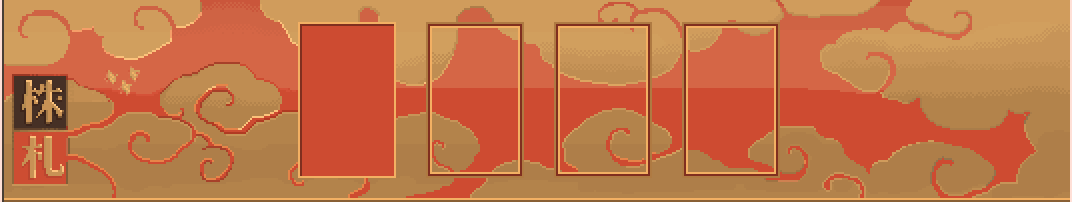
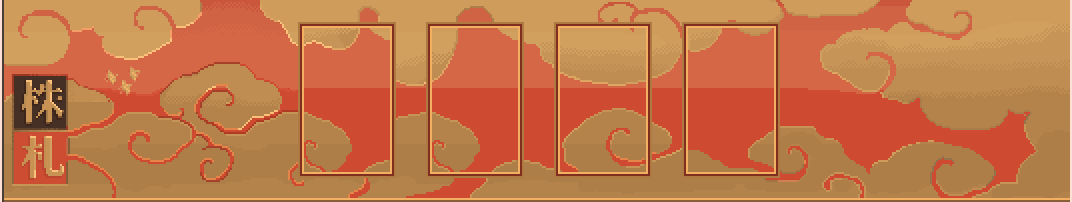
more sfx + difficulty + anim + random stuff

Changed region(s): [[0.2771, 0.0891, 0.3694, 0.8911]]

diff --git a/board.py b/board.py
@@ -5,6 +5,7 @@ from stack import Stack
 from card import Card
 from random import shuffle
 from assetloader import AssetLoader
+from difficulty import Difficulty
 
 
 class Board:
@@ -16,9 +17,9 @@ class Board:
         self.board_main = load_image("backboard-main.png")
         self.top_stacks = [
             Stack(302, 109, [], False, True),
-            Stack(430, 109, [], False, True),
-            Stack(430+128, 109, [], False, True),
-            Stack(430+128+128, 109, [], False, True)
+            Stack(430, 109, [], True, True),
+            Stack(430+128, 109, [], True, True),
+            Stack(430+128+128, 109, [], True, True)
         ]
         self.bottom_stacks = [
             Stack(46, 223+83, []),
@@ -36,14 +37,24 @@ class Board:
         self.randomize_game()
         Board.instance = self
 
+    def set_difficulty(self, difficulty: Difficulty):
+        # noinspection PyTypeChecker
+        for i in range(difficulty.value):
+            self.top_stacks[i].locked = False
+
     def randomize_game(self):
+        self.set_difficulty(Difficulty.EXPERT)
         for stack in self.stacks:
             stack.cards = []
         new_cards = []
         groups = list(range(1, 11))
+        anims = [_*0.3 for _ in list(range(40))]
+        shuffle(anims)
         for n in groups:
             for _ in range(4):
-                new_cards.append(Card(0, 0, n))
+                i = anims[0]
+                new_cards.append(Card(0, 0, n, -i))
+                anims.pop(0)
         shuffle(new_cards)
         for stack in self.bottom_stacks:
             for _ in range(5):
@@ -69,6 +80,10 @@ class Board:
 
     def handle_event(self, event: pygame.event.Event):
         def complete_set(cs_: list[Card], m=0): return len(cs_) == 4-m and list(set(map(lambda card23: card23.number, cs_))).__len__() == 1
+
+        animing_rn = any([any([card.anim != 1 for card in stack]) for stack in self.stacks])
+        if animing_rn:
+            return
 
         for stack in self.stacks:
             revstack = list(stack.__reversed__())

diff --git a/main.py b/main.py
@@ -1,5 +1,5 @@
 import pygame
-# noinspection PyUnresolvedReferences
+# noinspection PyUnresolvedReferences,PyProtectedMember
 from pygame._sdl2 import Window
 from constants import *
 from utils import *
@@ -7,26 +7,39 @@ from game import Game
 
 pygame.init()
 screen = pygame.display.set_mode([WIDTH, HEIGHT], pygame.NOFRAME)
-screen.fill((255, 255, 0))
+
+loading_image = pygame.image.load(join(getcwd(), "images", "loading.png")).convert_alpha()
+screen.blit(loading_image, loading_image.get_rect(center=screen.get_rect().center))
+pygame.mouse.set_cursor(pygame.SYSTEM_CURSOR_WAIT)
+
 pygame.display.update()
 clock = pygame.time.Clock()
 game = Game()
 last_mp = [0, 0]
 last_rel_effect = [0, 0]
+init_clicked_on_title = False
 
+pygame.mouse.set_cursor(pygame.SYSTEM_CURSOR_ARROW)
 while True:
     screen.fill((0, 0, 0))
     for event in pygame.event.get():
         if event.type == pygame.KEYDOWN:
             if event.key == pygame.K_ESCAPE:
                 running = False
+        if event.type == pygame.MOUSEBUTTONDOWN:
+            if event.button == 1:
+                if mp()[1] < 83 and mp()[0] < 940:
+                    init_clicked_on_title = True
+        if event.type == pygame.MOUSEBUTTONUP:
+            init_clicked_on_title = False
         if event.type == pygame.MOUSEMOTION:
             if event.buttons[0]:
-                if mp()[1] < 83 and mp()[0] < 1000:
+                if init_clicked_on_title:
                     rel = [mp()[0]-last_mp[0], mp()[1]-last_mp[1]]
                     rel[0] = clamp(rel[0], -40, 40)
                     rel[1] = clamp(rel[1], -40, 40)
                     pgwindow = Window.from_display_module()
+                    # noinspection PyUnresolvedReferences
                     pgwindow.position = pgwindow.position[0]+rel[0], pgwindow.position[1]+rel[1]
                     last_rel_effect = rel
         game.handle_event(event)

diff --git a/card.py b/card.py
@@ -5,10 +5,14 @@ from assetloader import AssetLoader
 
 
 class Card:
-    def __init__(self, x: int, y: int, number: int):
+    ORIGIN = (430+64, -148)
+
+    def __init__(self, x: int, y: int, number: int, anim: float = 0):
         self.x, self.y = x, y
+        self.anim = anim
         self.grabbed = False
         self.number = number
+        self.sounded = False
         self._gp = (0, 0)
 
     @property
@@ -28,8 +32,17 @@ class Card:
         return self.image.get_rect(topleft=self.pos)
 
     def draw(self, screen: pygame.Surface):
-        pygame.draw.rect(screen, (0, 0, 0), self.rect.inflate(4, 4))
-        screen.blit(self.image, self.rect)
+        self.anim += 2.3/FRAMERATE
+        if self.anim > 0 and not self.sounded:
+            AssetLoader.play_sound(AssetLoader.deal_sound)
+            self.sounded = True
+        if self.anim > 1:
+            self.anim = 1
+        s_ = self.rect.inflate(4, 4)[:2]
+        oawihef = lerp_pos(Card.ORIGIN, s_[:2], self.anim)
+        mand = pygame.Rect(*oawihef, 94, 152)
+        pygame.draw.rect(screen, (0, 0, 0), mand)
+        screen.blit(self.image, self.image.get_rect(center=mand.center))
         if self.grabbed:
             self.pos = mp()[0]-self._gp[0], mp()[1]-self._gp[1]
 

diff --git a/assetloader.py b/assetloader.py
@@ -11,6 +11,7 @@ class AssetLoader:
     pickup_sound = None
     place_sound = None
     select_sound = None
+    deal_sound = None
     music = None
 
     @staticmethod
@@ -30,6 +31,7 @@ class AssetLoader:
         AssetLoader.place_sound = load_sound("place.ogg")
         AssetLoader.select_sound = load_sound("select.ogg")
         AssetLoader.music = load_sound("music.ogg")
+        AssetLoader.deal_sound = load_sound("deal.ogg")
         AssetLoader.play_sound(AssetLoader.music, loop=True)
         AssetLoader.card_images = [
             load_image("1.png"),

diff --git a/utils.py b/utils.py
@@ -15,5 +15,9 @@ def mp():
     return pygame.mouse.get_pos()
 
 
+def lerp_pos(p1, p2, n):
+    return p1[0]*(1-n)+p2[0]*n, p1[1]*(1-n)+p2[1]*n
+
+
 def clamp(n, a, b):
     return max(min(n, b), a)

diff --git a/difficulty.py b/difficulty.py
@@ -1,0 +1,8 @@
+from enum import Enum
+
+
+class Difficulty(Enum):
+    EASY = 4
+    NORMAL = 3
+    HARD = 2
+    EXPERT = 1
